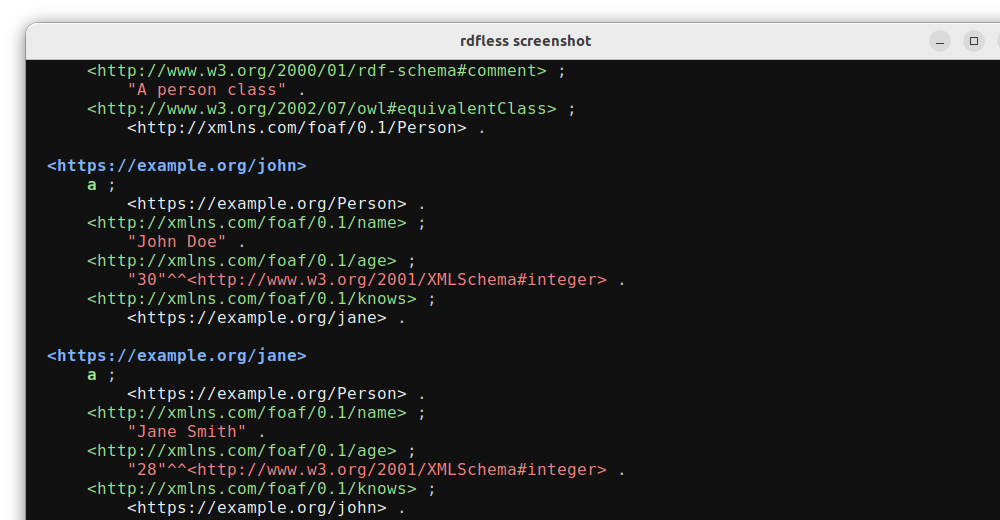
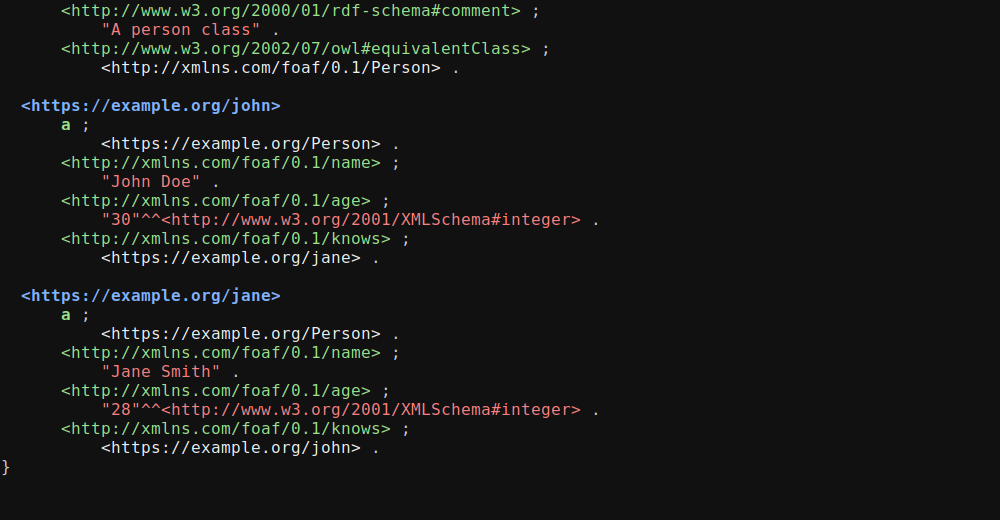
Fix compact RDF formatting and screenshots

Changed region(s): [[0.0, 0.0, 1.0, 1.0]]

diff --git a/src/formatter/compact.rs b/src/formatter/compact.rs
@@ -108,76 +108,60 @@ pub fn print_triples_to_writer<W: Write>(
             writeln!(writer, "{} {{", colors.colorize(&formatted_graph, "graph"))?;
         }
 
-        // Group by subject within this graph
-        let mut current_subject: Option<String> = None;
-        let terminal_width = get_terminal_width();
-
+        // Group by subject within this graph while preserving input order.
+        let mut subject_groups: Vec<(String, Vec<&OwnedTriple>)> = Vec::new();
         for triple in triples_in_graph {
             let subject = format_subject(triple, prefixes, colors);
-            let predicate = format_predicate(triple, prefixes, colors);
-            let object = format_object(triple, prefixes, colors);
+            if let Some((_, subject_triples)) = subject_groups
+                .iter_mut()
+                .find(|(group_subject, _)| group_subject == &subject)
+            {
+                subject_triples.push(triple);
+            } else {
+                subject_groups.push((subject, vec![triple]));
+            }
+        }
 
+        let terminal_width = get_terminal_width();
+
+        for (subject_index, (subject, subject_triples)) in subject_groups.iter().enumerate() {
             // Indent more if we're in a named graph
             let indent = if graph_key.is_some() { "  " } else { "" };
 
-            // Check if we're continuing with the same subject
-            if let Some(ref current) = current_subject {
-                if current == &subject {
-                    // Same subject, continue with predicate-object
-                    // Calculate if we can fit predicate and object on the same line
-                    let predicate_line = format!("{indent}    {predicate}");
-                    let object_part = format!(" {object} .");
-                    let full_line = format!("{predicate_line}{object_part}");
-                    let line_length = strip_ansi_codes(&full_line).len();
+            if subject_index > 0 && graph_key.is_none() {
+                writeln!(writer)?; // Add a blank line between statements
+            }
 
-                    if line_length <= terminal_width {
-                        // Fits on one line
-                        writeln!(writer, "{full_line}")?;
-                    } else {
-                        // Split across lines
-                        writeln!(writer, "{predicate_line} ;")?;
-                        writeln!(writer, "{indent}        {object} .")?;
-                    }
+            for (triple_index, triple) in subject_triples.iter().enumerate() {
+                let predicate = format_predicate(triple, prefixes, colors);
+                let object = format_object(triple, prefixes, colors);
+                let terminator = if triple_index + 1 == subject_triples.len() {
+                    "."
                 } else {
-                    // Different subject, add blank line and start new triple
-                    if graph_key.is_none() {
-                        writeln!(writer)?; // Add a blank line between statements
-                    }
+                    ";"
+                };
 
-                    // Calculate if subject, predicate, and object fit on one line
-                    let subject_colored = colors.colorize(&subject, "subject");
-                    let subject_line = format!("{indent}{subject_colored} {predicate}");
-                    let object_part = format!(" {object} .");
-                    let full_line = format!("{subject_line}{object_part}");
-                    let line_length = strip_ansi_codes(&full_line).len();
-
-                    if line_length <= terminal_width {
-                        // Fits on one line
-                        writeln!(writer, "{full_line}")?;
-                    } else {
-                        // Split across lines
-                        writeln!(writer, "{subject_line} ;")?;
-                        writeln!(writer, "{indent}    {object} .")?;
-                    }
-                    current_subject = Some(subject);
-                }
-            } else {
-                // First triple
-                let subject_colored = colors.colorize(&subject, "subject");
-                let subject_line = format!("{indent}{subject_colored} {predicate}");
-                let object_part = format!(" {object} .");
-                let full_line = format!("{subject_line}{object_part}");
+                let predicate_line = if triple_index == 0 {
+                    let subject_colored = colors.colorize(subject, "subject");
+                    format!("{indent}{subject_colored} {predicate}")
+                } else {
+                    format!("{indent}    {predicate}")
+                };
+                let object_part = format!(" {object} {terminator}");
+                let full_line = format!("{predicate_line}{object_part}");
                 let line_length = strip_ansi_codes(&full_line).len();
 
                 if line_length <= terminal_width {
-                    // Fits on one line
                     writeln!(writer, "{full_line}")?;
                 } else {
-                    // Split across lines
-                    writeln!(writer, "{subject_line} ;")?;
-                    writeln!(writer, "{indent}    {object} .")?;
+                    writeln!(writer, "{predicate_line}")?;
+                    let object_indent = if triple_index == 0 {
+                        format!("{indent}    ")
+                    } else {
+                        format!("{indent}        ")
+                    };
+                    writeln!(writer, "{object_indent}{object} {terminator}")?;
                 }
-                current_subject = Some(subject);
             }
         }
 

diff --git a/tests/formatter_test.rs b/tests/formatter_test.rs
@@ -408,3 +408,91 @@ fn test_print_prefixes_without_base() {
     assert!(output_str.contains("@prefix rdf: <http://www.w3.org/1999/02/22-rdf-syntax-ns#>"));
     assert!(output_str.contains("@prefix ex: <https://example.org/vocab/>"));
 }
+
+#[rstest]
+fn test_compact_turtle_repeated_subject_uses_semicolon_until_final_period() {
+    let triples = vec![
+        OwnedTriple {
+            subject_type: SubjectType::NamedNode,
+            subject_value: "https://example.org/x".to_string(),
+            predicate: "http://www.w3.org/1999/02/22-rdf-syntax-ns#type".to_string(),
+            object_type: ObjectType::NamedNode,
+            object_value: "http://www.w3.org/2000/01/rdf-schema#Class".to_string(),
+            object_datatype: None,
+            object_language: None,
+            graph: None,
+            subject_triple: None,
+            object_triple: None,
+        },
+        OwnedTriple {
+            subject_type: SubjectType::NamedNode,
+            subject_value: "https://example.org/x".to_string(),
+            predicate: "http://www.w3.org/2000/01/rdf-schema#label".to_string(),
+            object_type: ObjectType::Literal,
+            object_value: "X".to_string(),
+            object_datatype: None,
+            object_language: None,
+            graph: None,
+            subject_triple: None,
+            object_triple: None,
+        },
+    ];
+    let mut prefixes = HashMap::new();
+    prefixes.insert("".to_string(), "https://example.org/".to_string());
+    prefixes.insert(
+        "rdfs".to_string(),
+        "http://www.w3.org/2000/01/rdf-schema#".to_string(),
+    );
+
+    let colors = ColorConfig::no_color();
+    let mut output = Vec::new();
+    rdfless::render_output(&triples, &prefixes, false, &colors, &mut output).unwrap();
+
+    let output_str = String::from_utf8(output).unwrap();
+    assert!(output_str.contains(":x a rdfs:Class ;\n    rdfs:label \"X\" ."));
+    assert!(!output_str.contains(":x a rdfs:Class .\n    rdfs:label \"X\" ."));
+}
+
+#[rstest]
+fn test_compact_trig_repeated_subject_uses_semicolon_until_final_period() {
+    let triples = vec![
+        OwnedTriple {
+            subject_type: SubjectType::NamedNode,
+            subject_value: "https://example.org/x".to_string(),
+            predicate: "http://www.w3.org/1999/02/22-rdf-syntax-ns#type".to_string(),
+            object_type: ObjectType::NamedNode,
+            object_value: "http://www.w3.org/2000/01/rdf-schema#Class".to_string(),
+            object_datatype: None,
+            object_language: None,
+            graph: Some("https://example.org/g".to_string()),
+            subject_triple: None,
+            object_triple: None,
+        },
+        OwnedTriple {
+            subject_type: SubjectType::NamedNode,
+            subject_value: "https://example.org/x".to_string(),
+            predicate: "http://www.w3.org/2000/01/rdf-schema#label".to_string(),
+            object_type: ObjectType::Literal,
+            object_value: "X".to_string(),
+            object_datatype: None,
+            object_language: None,
+            graph: Some("https://example.org/g".to_string()),
+            subject_triple: None,
+            object_triple: None,
+        },
+    ];
+    let mut prefixes = HashMap::new();
+    prefixes.insert("".to_string(), "https://example.org/".to_string());
+    prefixes.insert(
+        "rdfs".to_string(),
+        "http://www.w3.org/2000/01/rdf-schema#".to_string(),
+    );
+
+    let colors = ColorConfig::no_color();
+    let mut output = Vec::new();
+    rdfless::render_output(&triples, &prefixes, false, &colors, &mut output).unwrap();
+
+    let output_str = String::from_utf8(output).unwrap();
+    assert!(output_str.contains(":g {\n  :x a rdfs:Class ;\n      rdfs:label \"X\" .\n}"));
+    assert!(!output_str.contains("  :x a rdfs:Class .\n      rdfs:label \"X\" ."));
+}

diff --git a/scripts/update_screenshots.py b/scripts/update_screenshots.py
@@ -114,6 +114,11 @@ def main():
 
         env = os.environ.copy()
         env["HOME"] = tmp_home
+        # Screenshot assets should always demonstrate syntax highlighting, even
+        # when the invoking shell has opted out of color globally.
+        env.pop("NO_COLOR", None)
+        if env.get("CLICOLOR") == "0":
+            env.pop("CLICOLOR", None)
         for out, cmd in IMAGES:
             run_one(out, cmd, env)
     print("All screenshots generated")

diff --git a/scripts/terminal_screenshot.py b/scripts/terminal_screenshot.py
@@ -76,11 +76,12 @@ class TerminalScreenshotApp(Gtk.Window):
 
         # Start the command
         try:
+            envv = [f"{key}={value}" for key, value in os.environ.items()]
             self.term.spawn_sync(
                 Vte.PtyFlags.DEFAULT,
                 cwd,
                 command,
-                [],
+                envv,
                 GLib.SpawnFlags.DEFAULT,
                 None, None,
                 None,
